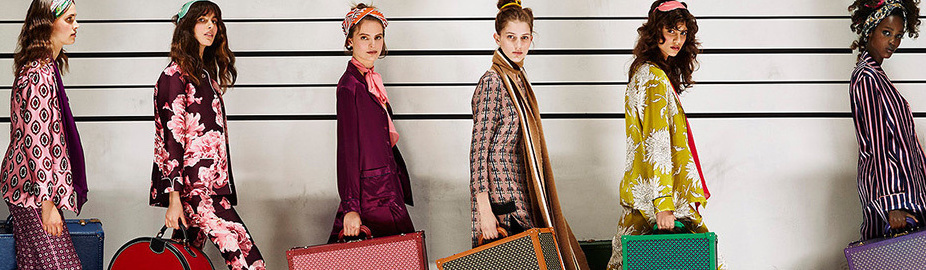
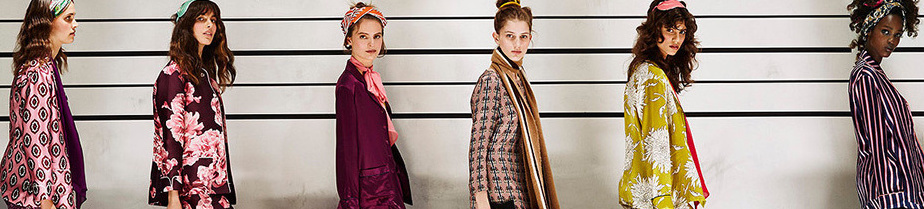
update

diff --git a/index2.html b/index2.html
@@ -20,11 +20,11 @@
   -webkit-animation-duration: 1.5s;
   animation-name: fade;
   animation-duration: 1.5s;
-  -webkit-filter: saturate(1.5); filter: saturate(1.5);
+  -webkit-filter: saturate(1); filter: saturate(1);
 }
 .photo {
   grid-area: photo;
-  -webkit-filter: saturate(1.5); filter: saturate(1.5);
+  -webkit-filter: saturate(1); filter: saturate(1);
 }
 .saturate {-webkit-filter: saturate(3); filter: saturate(3);}
 .brightness {-webkit-filter: brightness(100%);filter: brightness(100%);}
@@ -42,7 +42,7 @@
 
 <div class="slideshow-container">
     <div class="mySlides fade">
-     <img src="img4.jpg" style="width:100%" class="w3-grayscale">
+     <img src="img01.jpg" style="width:100%" class="w3-grayscale">
      </div>
 
 </div>
@@ -54,7 +54,7 @@
 <figure class="snip1249 hover">
   <div class="image">
     <a href="BrandsRunway-details.html">
-    <img src="https://s3-us-west-2.amazonaws.com/s.cdpn.io/331810/sample85.jpg" alt="sample85"/>
+    <img class="fade" src="a.jpg" alt="sample85"/>
     </a>    
     <i class="ion-ios-star-outline"></i>
   </div>
@@ -71,7 +71,7 @@
 <figure class="snip1249 hover">
   <div class="image">
     <a href="BrandsRunway-details.html">
-    <img src="https://s3-us-west-2.amazonaws.com/s.cdpn.io/331810/sample85.jpg" alt="sample85"/>
+    <img class="fade" src="c.jpg" alt="sample85"/>
     </a>
     <i class="ion-ios-star-outline"></i>
   </div>
@@ -89,7 +89,7 @@
 <figure class="snip1249 hover">
   <div class="image">
     <a href="BrandsRunway-details.html">
-    <img src="https://s3-us-west-2.amazonaws.com/s.cdpn.io/331810/sample85.jpg" alt="sample85"/>
+    <img class="fade" src="b.jpg" alt="sample85"/>
     </a>
     <i class="ion-ios-star-outline"></i>
   </div>
@@ -110,7 +110,7 @@
 <figure class="snip1249 hover">
   <div class="image">
     <a href="BrandsRunway-details.html">
-    <img src="https://s3-us-west-2.amazonaws.com/s.cdpn.io/331810/sample85.jpg" alt="sample85"/>
+    <img src="d.jpg" alt="sample85"/>
     </a>
     <i class="ion-ios-star-outline"></i>
   </div>
@@ -127,7 +127,7 @@
 <figure class="snip1249 hover">
   <div class="image">
     <a href="BrandsRunway-details.html">
-    <img src="https://s3-us-west-2.amazonaws.com/s.cdpn.io/331810/sample85.jpg" alt="sample85"/>
+    <img src="e.jpg" alt="sample85"/>
     </a>    <i class="ion-ios-star-outline"></i>
   </div>
   <figcaption>
@@ -144,7 +144,7 @@
 <figure class="snip1249 hover">
   <div class="image">
     <a href="BrandsRunway-details.html">
-    <img src="https://s3-us-west-2.amazonaws.com/s.cdpn.io/331810/sample85.jpg" alt="sample85"/>
+    <img src="f.jpg" alt="sample85"/>
     </a>
     <i class="ion-ios-star-outline"></i>
   </div>
@@ -164,7 +164,7 @@
 <figure class="snip1249 hover">
   <div class="image">
     <a href="BrandsRunway-details.html">
-    <img src="https://s3-us-west-2.amazonaws.com/s.cdpn.io/331810/sample85.jpg" alt="sample85"/>
+    <img src="a.jpg" alt="sample85"/>
     </a>
     <i class="ion-ios-star-outline"></i>
   </div>
@@ -181,7 +181,7 @@
 <figure class="snip1249 hover">
   <div class="image">
     <a href="BrandsRunway-details.html">
-    <img src="https://s3-us-west-2.amazonaws.com/s.cdpn.io/331810/sample85.jpg" alt="sample85"/>
+    <img src="c.jpg" alt="sample85"/>
     </a>
     <i class="ion-ios-star-outline"></i>
   </div>
@@ -199,7 +199,7 @@
 <figure class="snip1249 hover">
   <div class="image">
     <a href="BrandsRunway-details.html">
-    <img src="https://s3-us-west-2.amazonaws.com/s.cdpn.io/331810/sample85.jpg" alt="sample85"/>
+    <img src="b.jpg" alt="sample85"/>
     </a>    <i class="ion-ios-star-outline"></i>
   </div>
   <figcaption>
@@ -215,7 +215,7 @@
 <figure class="snip1249 hover">
   <div class="image">
     <a href="BrandsRunway-details.html">
-    <img src="https://s3-us-west-2.amazonaws.com/s.cdpn.io/331810/sample85.jpg" alt="sample85"/>
+    <img src="d.jpg" alt="sample85"/>
     </a>    <i class="ion-ios-star-outline"></i>
   </div>
   <figcaption>
@@ -231,7 +231,7 @@
 <figure class="snip1249 hover">
   <div class="image">
     <a href="BrandsRunway-details.html">
-    <img src="https://s3-us-west-2.amazonaws.com/s.cdpn.io/331810/sample85.jpg" alt="sample85"/>
+    <img src="e.jpg" alt="sample85"/>
     </a>
     <i class="ion-ios-star-outline"></i>
   </div>
@@ -249,7 +249,7 @@
 <figure class="snip1249 hover">
   <div class="image">
     <a href="BrandsRunway-details.html">
-    <img src="https://s3-us-west-2.amazonaws.com/s.cdpn.io/331810/sample85.jpg" alt="sample85"/>
+    <img src="f.jpg" alt="sample85"/>
     </a>
     <i class="ion-ios-star-outline"></i>
   </div>

diff --git a/index3.html b/index3.html
@@ -36,19 +36,19 @@
 
             <div class="thumbs">
               <a class="thumb-image active">
-                <span><img src="0101.png"></span>
+                <span><img src="0101.jpg"></span>
               </a>
               <a class="thumb-image active">
-                <span><img src="0101.png"></span>
+                <span><img src="0202.jpg"></span>
               </a>
               <a class="thumb-image active">
-                <span><img src="0101.png"></span>
+                <span><img src="0101.jpg"></span>
               </a>
               <a class="thumb-image active">
-                <span><img src="0101.png"></span>
+                <span><img src="0202.jpg"></span>
               </a>
               <a class="thumb-image active">
-                <span><img src="0101.png"></span>
+                <span><img src="0101.jpg"></span>
               </a>
             </div>
 
@@ -56,7 +56,7 @@
             <div class="big">
               <span id="big-image" class="img" quickbeam="image" style="background-image: url('//cdn.shopify.com/s/files/1/1047/6452/products/product_1024x1024.png?v=1446769025')" data-src="//cdn.shopify.com/s/files/1/1047/6452/products/product_1024x1024.png?v=1446769025">
                 
-                <img src="0202.png"></span>
+                <img src="0202.jpg"></span>
 
 
               <div id="banner-gallery" class="swipe">
@@ -232,7 +232,7 @@
             <span class="img">
               <span style="background-image: url('//cdn.shopify.com/s/files/1/1047/6452/products/tricko1_70d2887b-ec6a-4bcb-a93b-7fd1783e6445_grande.jpg?v=1447530130')" class="i first"></span>
 
-              <img src="0303.png">
+              <img src="0303.jpg">
 
               <span class="i second" style="background-image: url('//cdn.shopify.com/s/files/1/1047/6452/products/product_030f9fc5-f253-4dca-a43a-fe2b719d0704_grande.png?v=1447530130')"></span>
             </span>
@@ -276,7 +276,7 @@
             <span class="img">
               <span style="background-image: url('//cdn.shopify.com/s/files/1/1047/6452/products/tricko2_357767df-d7ff-4b58-b705-edde76bb32b7_grande.jpg?v=1447530150')" class="i first"></span>
 
-              <img src="0303.png">
+              <img src="0404.jpg">
 
               <span class="i second" style="background-image: url('//cdn.shopify.com/s/files/1/1047/6452/products/tricko1_613d5776-ea61-4f9b-abef-0ce847c63a67_grande.jpg?v=1447530150')"></span>
             </span>
@@ -319,7 +319,7 @@
             <span class="img">
               <span style="background-image: url('//cdn.shopify.com/s/files/1/1047/6452/products/tricko3_0e98498a-123c-4305-9d94-d8280bb46416_grande.jpg?v=1447530164')" class="i first"></span>
 
-              <img src="0303.png">
+              <img src="0505.jpg">
 
               <span class="i second" style="background-image: url('//cdn.shopify.com/s/files/1/1047/6452/products/tricko2_6c949188-dba0-4789-9434-c0821b92f3f4_grande.jpg?v=1447530164')"></span>
             </span>
@@ -363,7 +363,7 @@
             <span class="img">
               <span style="background-image: url('//cdn.shopify.com/s/files/1/1047/6452/products/product_7d606126-1b60-4738-99b3-062810f2db8b_grande.png?v=1447530674')" class="i first"></span>
 
-              <img src="0303.png">
+              <img src="0606.jpg">
 
               <span class="i second" style="background-image: url('//cdn.shopify.com/s/files/1/1047/6452/products/tricko3_fd08d231-654c-4304-81b2-9191e6fd141e_grande.jpg?v=1447530674')"></span>
             </span>

diff --git a/BrandsRunway-shopping.html b/BrandsRunway-shopping.html
@@ -160,15 +160,6 @@ form {
 }
 
 
-/* Fading animation */
-.fade {
-  -webkit-animation-name: fade;
-  -webkit-animation-duration: 1.5s;
-  animation-name: fade;
-  animation-duration: 1.5s;
-  -webkit-filter: saturate(1.5); filter: saturate(1.5);
-}
-
 .active {
   background-color: #717171;
 }
@@ -176,12 +167,7 @@ form {
 
 .photo {
   grid-area: photo;
-  -webkit-filter: saturate(1.5); filter: saturate(1.5);
 }
-
-.saturate {-webkit-filter: saturate(3); filter: saturate(3);}
-.brightness {-webkit-filter: brightness(100%);filter: brightness(100%);}
-.contrast {-webkit-filter: contrast(80%);filter: contrast(80%);}
 
 .title {
   text-align: center;
